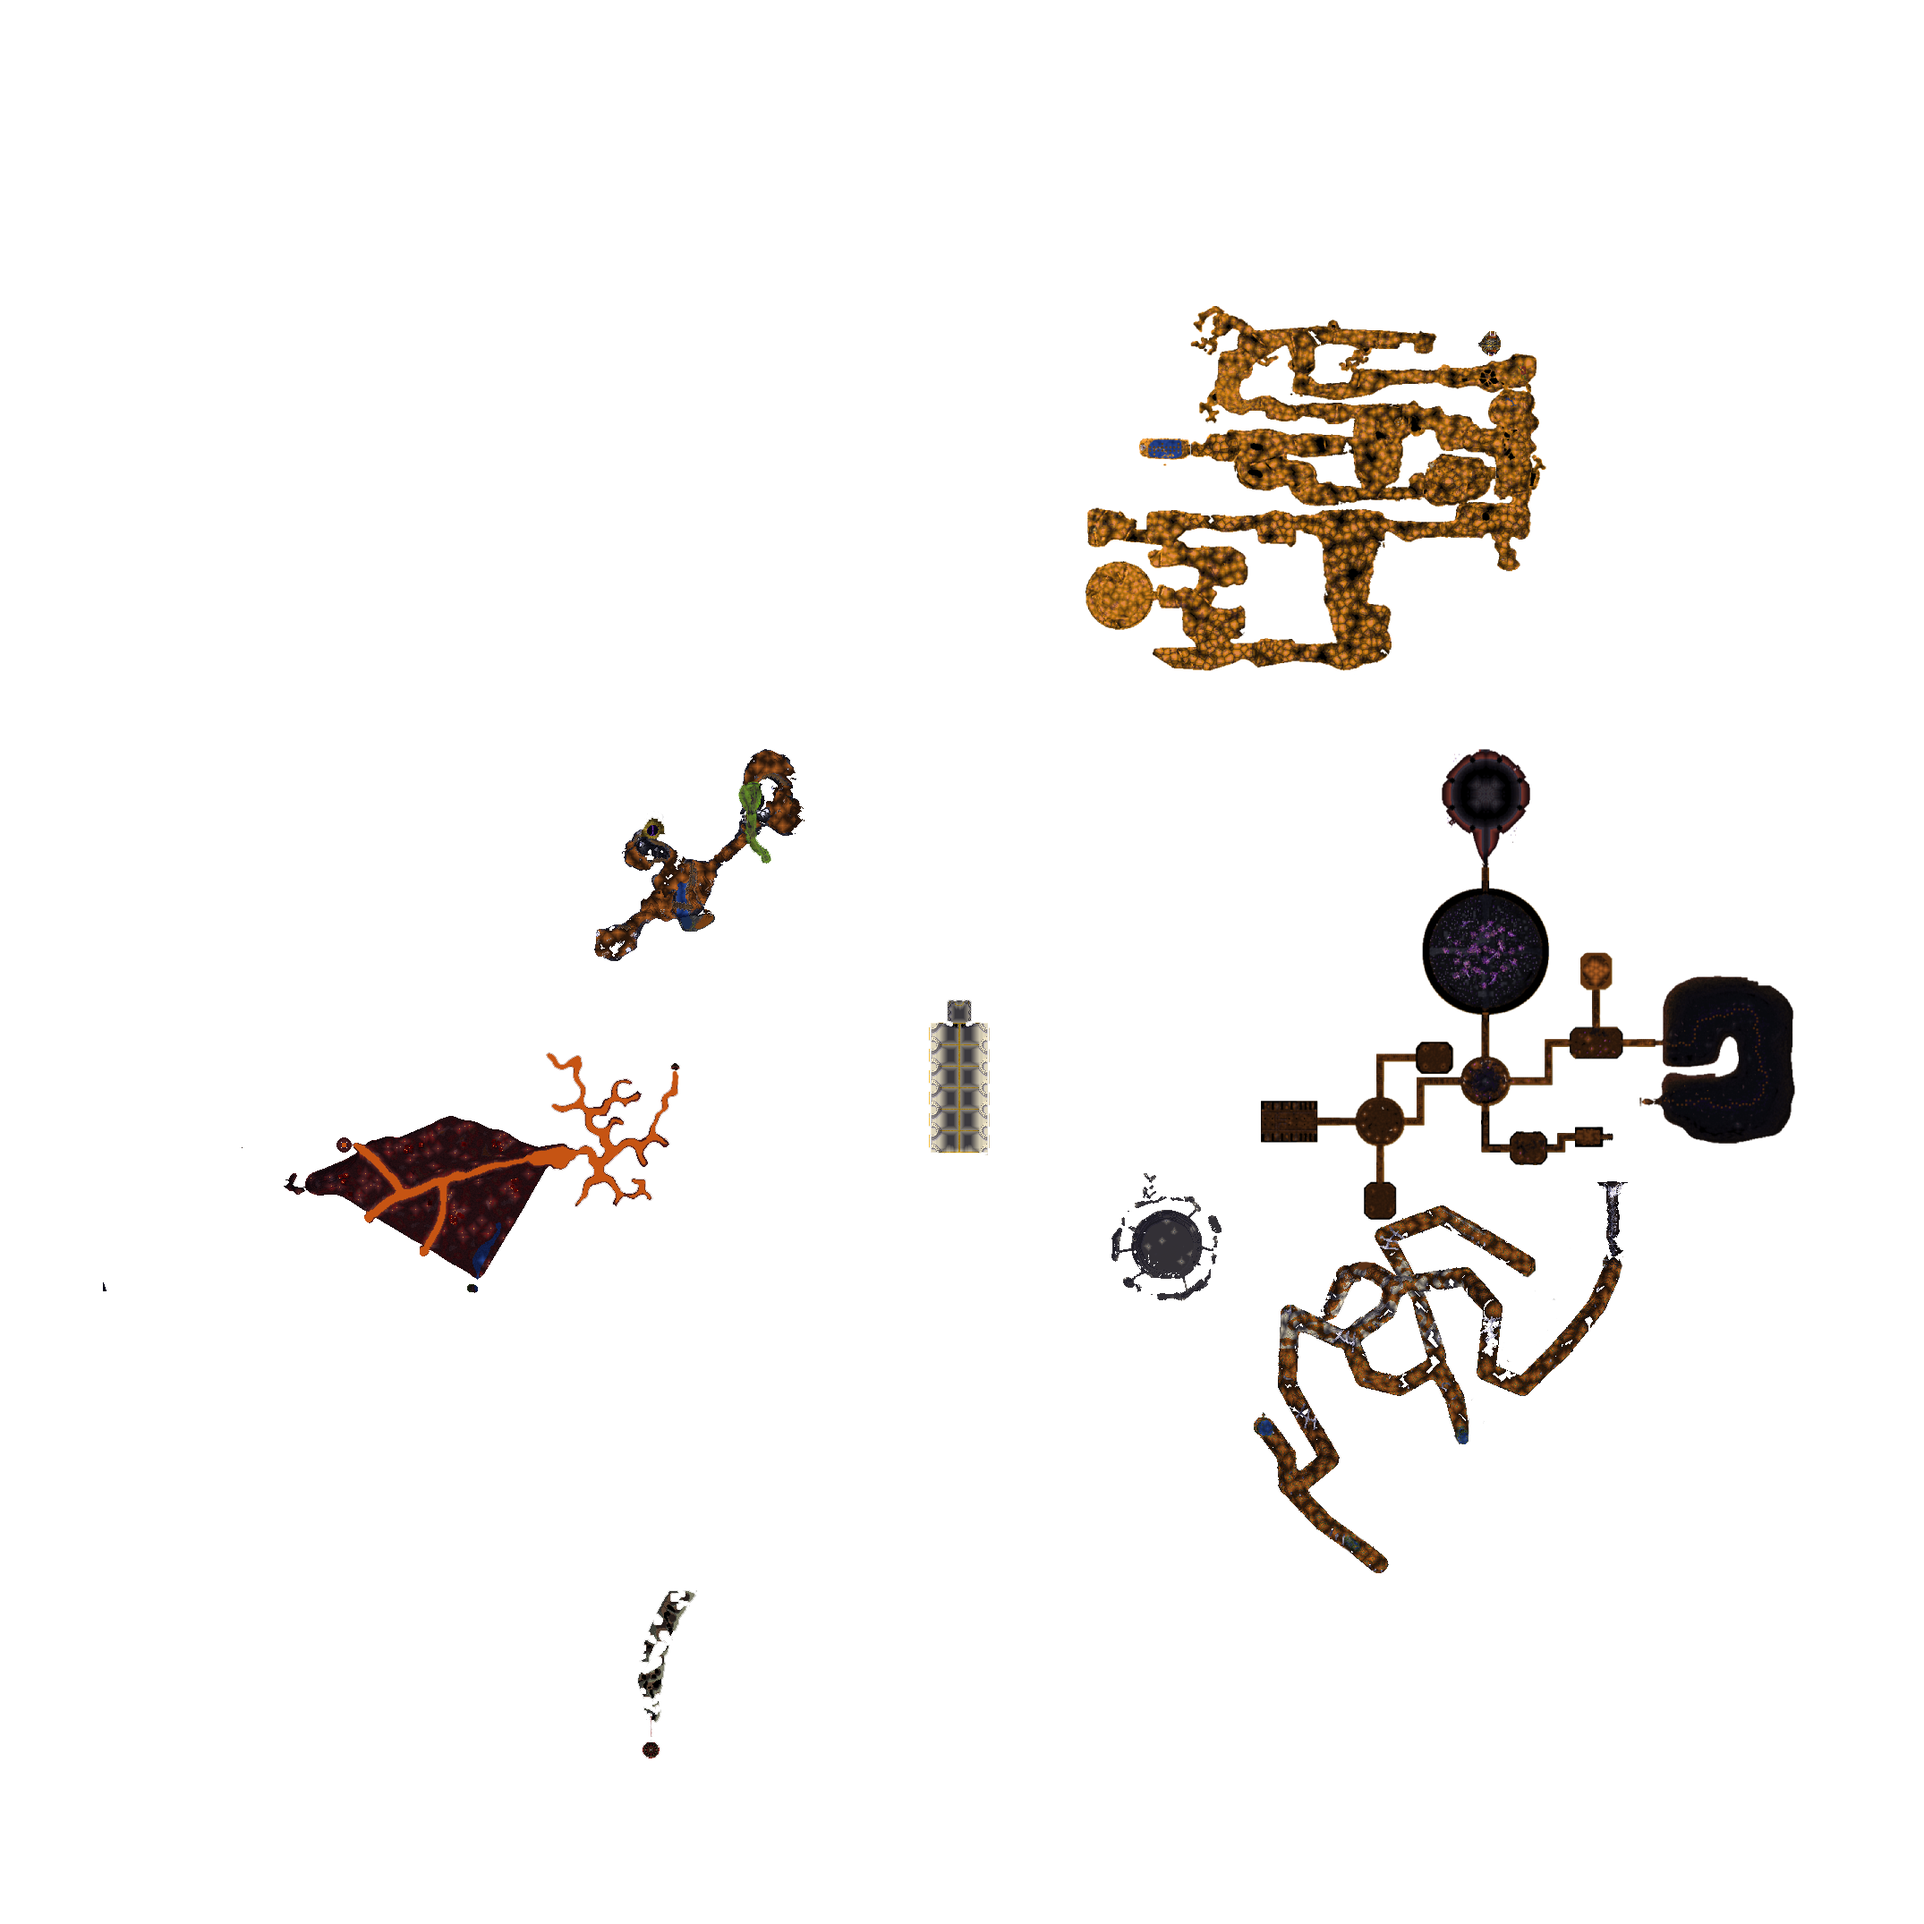
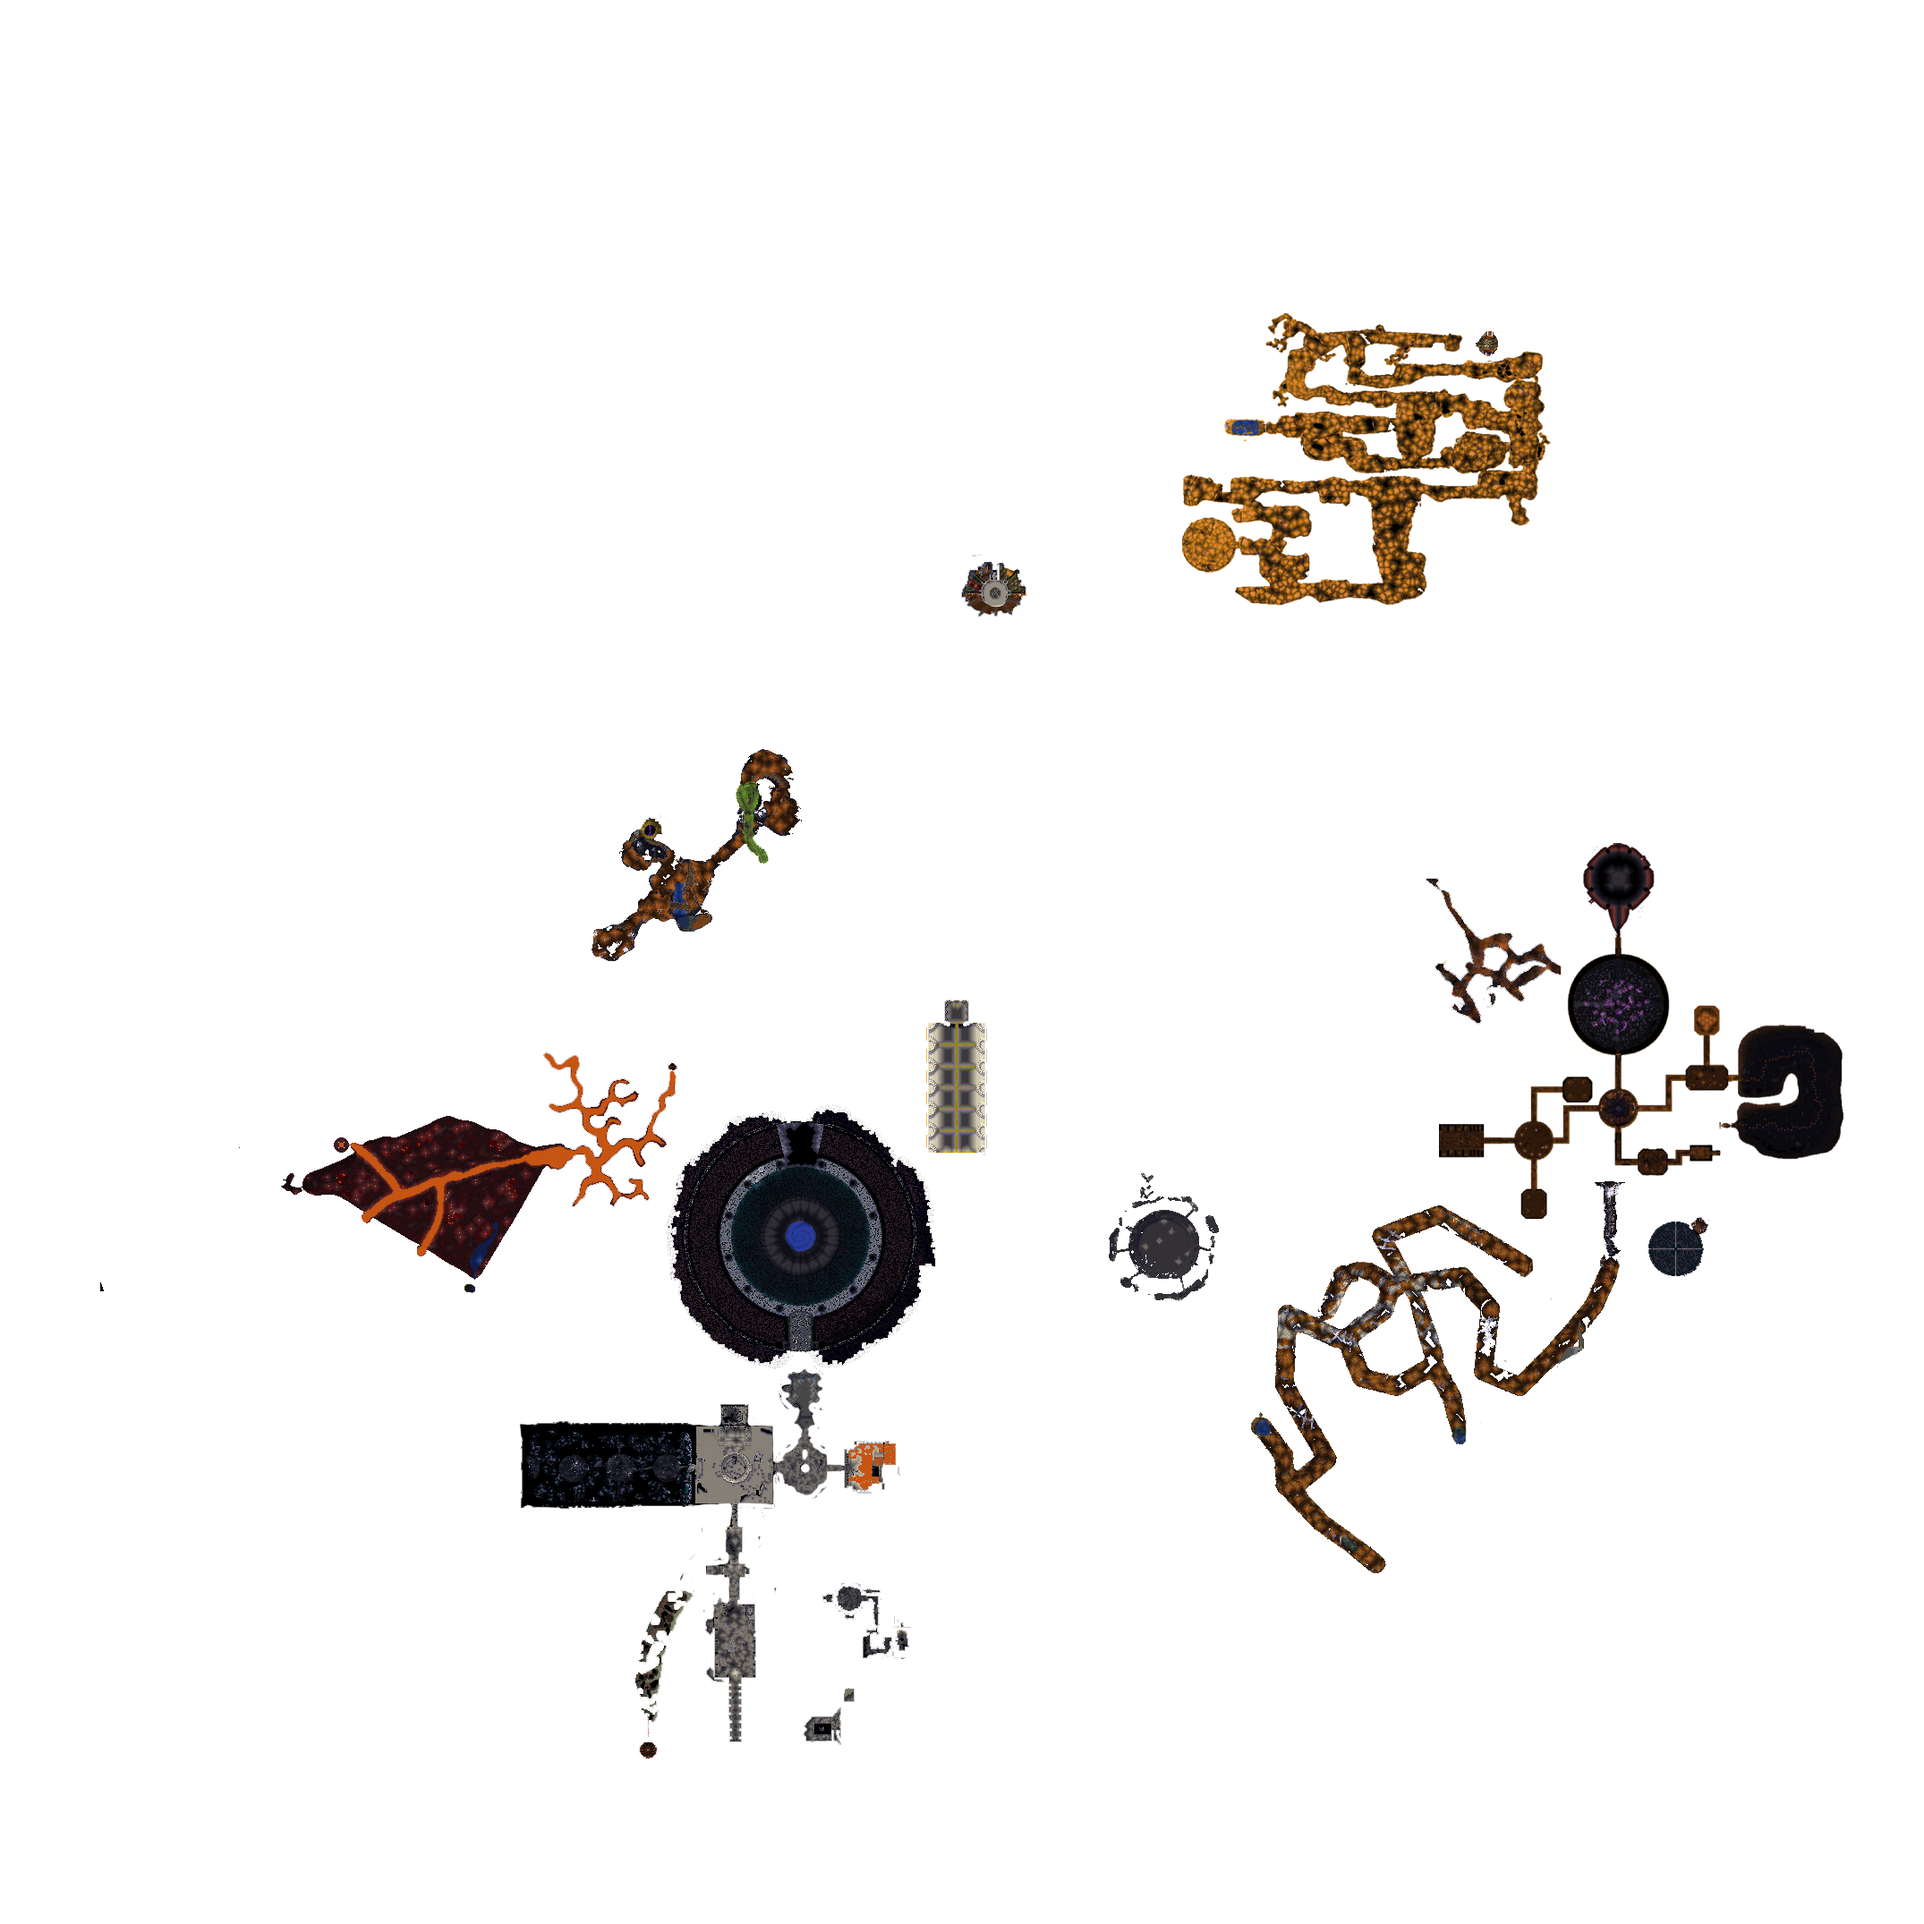
Add f3 underground

diff --git a/Map/data.js b/Map/data.js
@@ -9,7 +9,7 @@ var FLOOR_NAMES = { // var pour permettre la mise à jour depuis Firestore (conf
 const FLOOR_DATA = {
   1: { hasUnderground: true  },
   2: { hasUnderground: true },
-  3: { hasUnderground: false },
+  3: { hasUnderground: true },
 };
 
 const MAP_CALIBRATION = {

diff --git a/journeymap_assembler.py b/journeymap_assembler.py
@@ -15,7 +15,7 @@ except Exception:
 # CONFIGURATION
 # ─────────────────────────────────────────────────────────────
 
-PARENT_DIR = "/home/tchartie/Downloads/hnttkw7"
+PARENT_DIR = ""
 TILES_DIRS = []
 TILES_DIR = ""
 OUTPUT_DIR = ""
